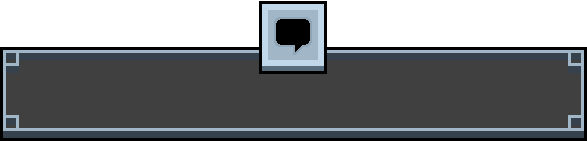
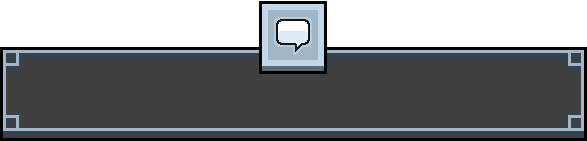
More simple styling changes.

Changed region(s): [[0.46, 0.1135, 0.552, 0.3972]]

diff --git a/source/stonehearth_data/mods/stonehearth/ui/game/bulletin/bulletin_list/bulletin_list.less b/source/stonehearth_data/mods/stonehearth/ui/game/bulletin/bulletin_list/bulletin_list.less
@@ -18,9 +18,9 @@
    td {
       div {
          display: flex;
-         height: 40px;
-         padding-top: 18px;
-         padding-left: 50px;
+         height: 30px;
+         padding-top: 15px;
+         padding-left: 40px;
          background-repeat: no-repeat;
          background-position: left center;
       }
@@ -33,5 +33,4 @@
    .alert {
       background-image: url(./images/row_warn.png);
    }
-
 }

diff --git a/source/stonehearth_data/mods/stonehearth/ui/game/tip_popup/tip_popup.less b/source/stonehearth_data/mods/stonehearth/ui/game/tip_popup/tip_popup.less
@@ -2,17 +2,11 @@
    .blackBorder;
    position: absolute;
    right: 10px;
-   bottom: 10px;
+   bottom: 60px;
    width: 400px;
-   background: rgba(0,0,0,0.7);
-   padding: 13px 10px 10px 75px;
+   background: rgba(0,0,0,0.8);
+   padding: 14px;
    color: #fff;
-
-   #icon {
-      position: absolute;
-      top: 8px;
-      left: 20px;
-   }
 
    #title {
       .outlined;

diff --git a/source/stonehearth_data/mods/stonehearth/ui/game/tip_popup/tip_popup.html b/source/stonehearth_data/mods/stonehearth/ui/game/tip_popup/tip_popup.html
@@ -1,7 +1,6 @@
 <script type="text/x-handlebars" data-template-name="stonehearthTipPopup">   
 
    <div id="tipPopup">
-      <img id="icon" src="/stonehearth/ui/game/main_actionbar/images/tip_popup_icon.png" />
       <div id="title">{{view.title}}</div>
       <div id="description">{{view.description}}</div>
    </div>
